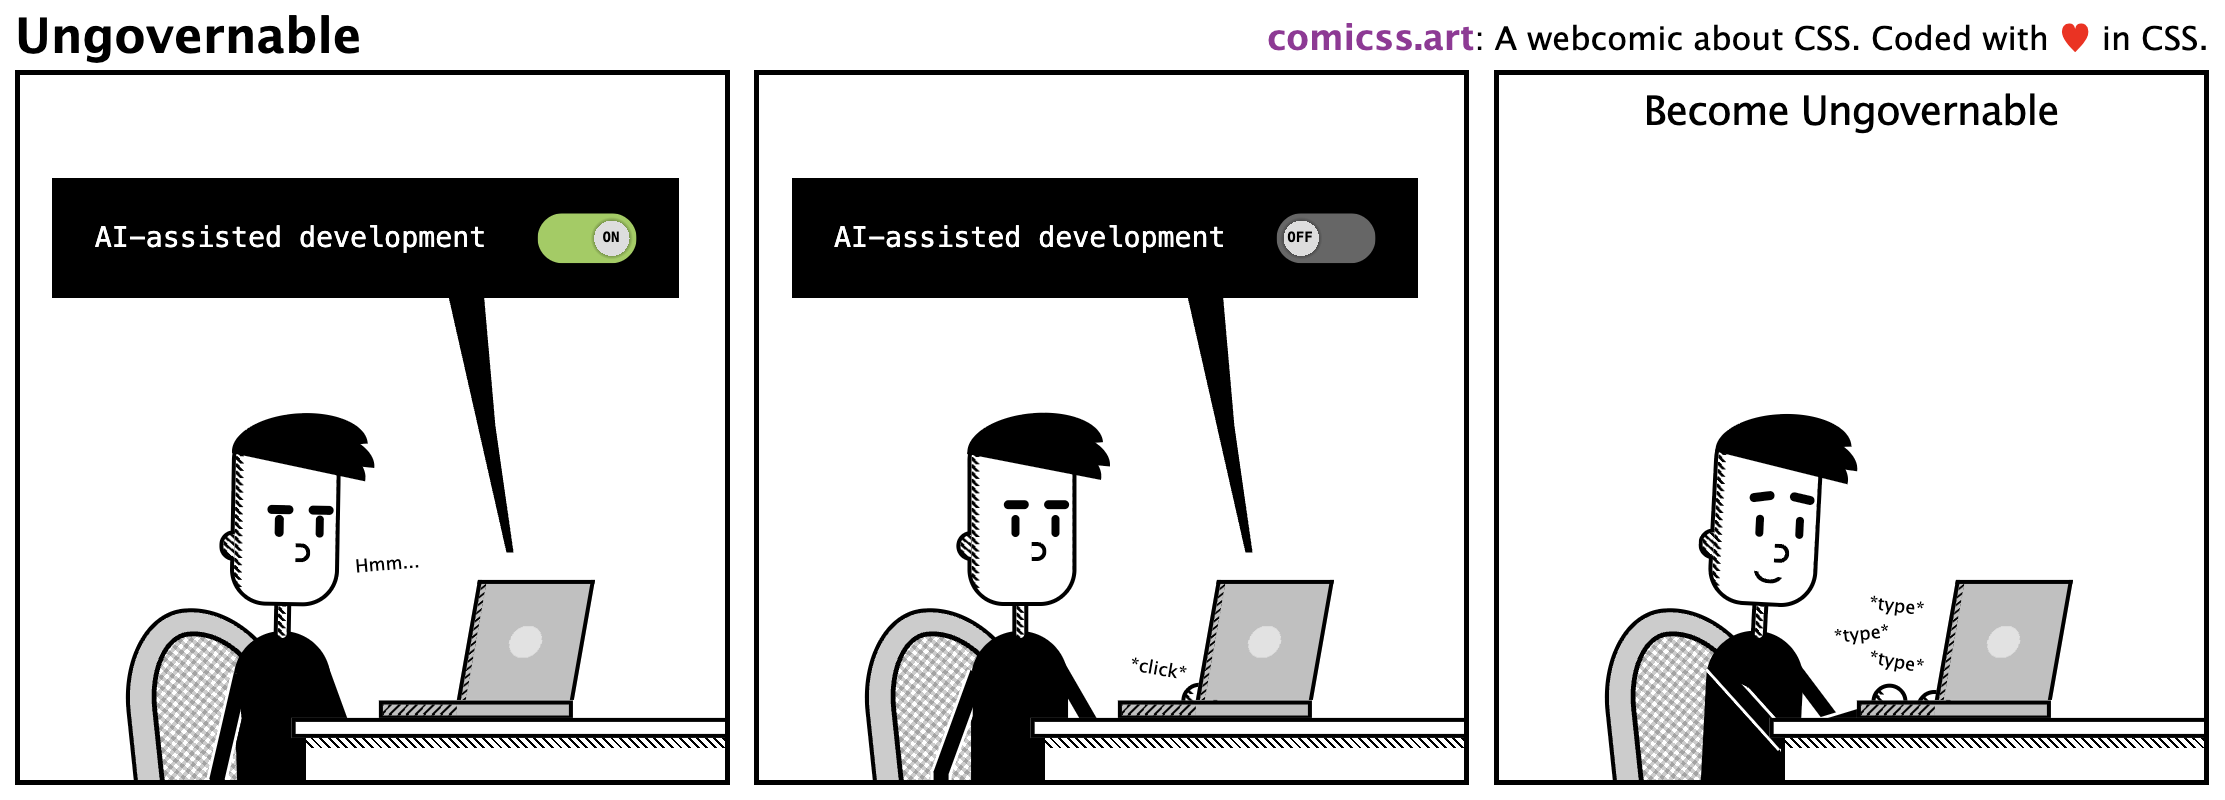
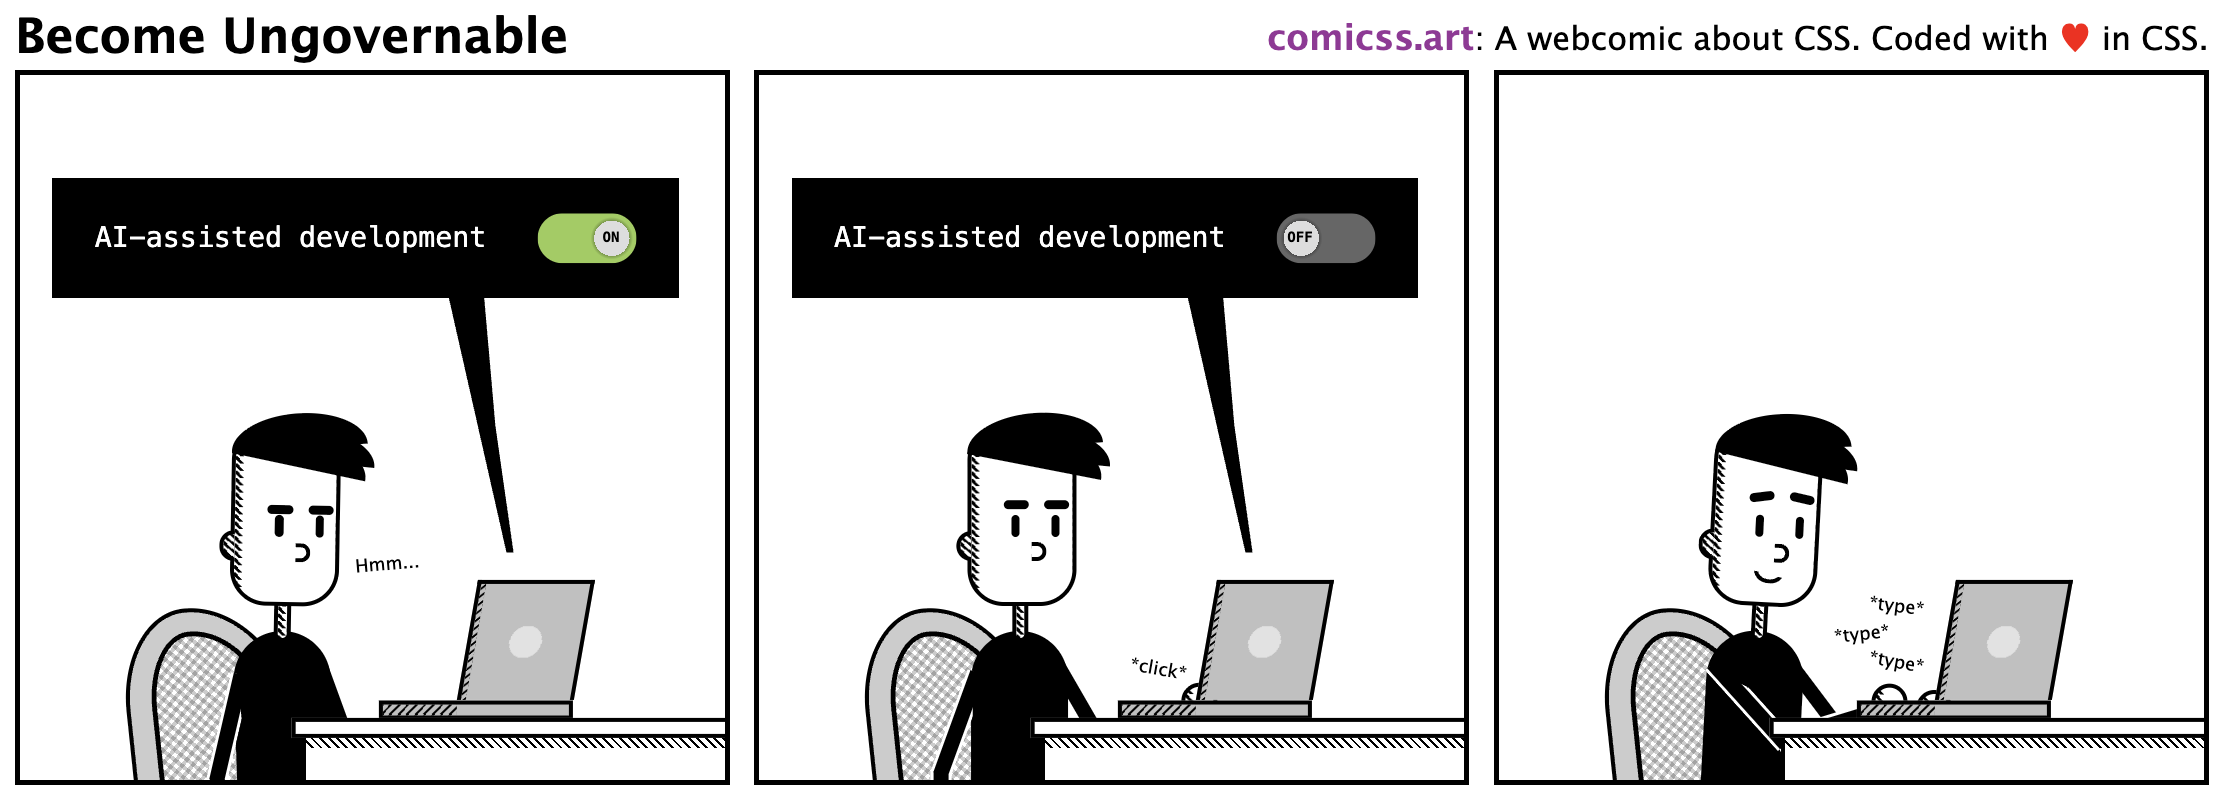
comic

Changed region(s): [[0.0, 0.0312, 0.2791, 0.0938], [0.7443, 0.125, 0.9303, 0.1562]]

diff --git a/comics/265/index.html b/comics/265/index.html
@@ -15,11 +15,11 @@
     <meta property="og:type" content="website" />
     <meta property="og:url" content="https://comicss.art/comics/265" />
     <meta property="og:image" content="https://comicss.art/comics/265/thumb.png" />
-    <meta property="og:description" content="comic strip with 3 panels showing a developer clicking to disable the AI option in an IDE, then starts coding manually, with the text Become Ungovernable" />
+    <meta property="og:description" content="comic strip with 3 panels titled Become Ungovernable, showing a developer clicking to disable the AI option in an IDE, then starts merrily coding manually." />
     <meta name="twitter:card" content="summary_large_image">
     <meta name="twitter:url" content="https://comicss.art/comics/265">
     <meta name="twitter:title" content="comiCSS #265: Become Ungovernable">
-    <meta name="twitter:description" content="comic strip with 3 panels showing a developer clicking to disable the AI option in an IDE, then starts coding manually, with the text Become Ungovernable">
+    <meta name="twitter:description" content="comic strip with 3 panels titled Become Ungovernable, showing a developer clicking to disable the AI option in an IDE, then starts merrily coding manually.">
     <meta name="twitter:image" content="https://comicss.art/comics/265/thumb.png">
     <link rel="monetization" href="https://fynbos.me/alvaro">
 
@@ -139,7 +139,7 @@
         </a>
       </nav>
 
-      <div id="comic-strip" role="img" class="" aria-label="comic strip with 3 panels showing a developer clicking to disable the AI option in an IDE, then starts coding manually, with the text Become Ungovernable">
+      <div id="comic-strip" role="img" class="" aria-label="comic strip with 3 panels titled Become Ungovernable, showing a developer clicking to disable the AI option in an IDE, then starts merrily coding manually.">
         <img src="/comics/265/265-ungovernable-0.webp" alt="" width="350" />
         <img src="/comics/265/265-ungovernable-1.webp" alt="" width="350" />
         <img src="/comics/265/265-ungovernable-2.webp" alt="" width="350" />

diff --git a/comics/265/ungovernable.html b/comics/265/ungovernable.html
@@ -118,7 +118,7 @@
       </css-panel>
     </css-comic> -->
 
-    <css-comic title="Ungovernable" grid="3x1">
+    <css-comic title="Become Ungovernable" grid="3x1">
       <css-panel>
         <css-speech type="screen-message"  line=" left-65" right-line>
           AI-assisted development
@@ -144,7 +144,7 @@
       </css-panel>
 
       <css-panel>
-        <h2>Become&nbsp;Ungovernable</h2>
+        <!-- <h2>Become&nbsp;Ungovernable</h2> -->
         <css-speech type="whisper" top="80" left="50" rotate="10" style="top:79%">*type*</css-speech>
         <css-speech type="whisper" top="75" left="45" rotate="-6">*type*</css-speech>
         <css-speech type="whisper" top="70" left="50" rotate="7" style="top:71%">*type*</css-speech>

diff --git a/index.html b/index.html
@@ -140,7 +140,7 @@
         </a>
       </nav>
 
-      <div id="comic-strip" class="" role="img" aria-label="comic strip with 3 panels showing a developer clicking to disable the AI option in an IDE, then starts coding manually, with the text Become Ungovernable">
+      <div id="comic-strip" class="" role="img" aria-label="comic strip with 3 panels titled Become Ungovernable, showing a developer clicking to disable the AI option in an IDE, then starts merrily coding manually.">
         <img src="/comics/265/265-ungovernable-0.webp" alt="" width="350" />
         <img src="/comics/265/265-ungovernable-1.webp" alt="" width="350" />
         <img src="/comics/265/265-ungovernable-2.webp" alt="" width="350" />

diff --git a/js/data.js b/js/data.js
@@ -2054,6 +2054,6 @@ const posts = [
     uid: "ungovernable",
     boxes: 3,
     title: "Become Ungovernable",
-    ariaLabel: "comic strip with 3 panels showing a developer clicking to disable the AI option in an IDE, then starts coding manually, with the text Become Ungovernable"
+    ariaLabel: "comic strip with 3 panels titled Become Ungovernable, showing a developer clicking to disable the AI option in an IDE, then starts merrily coding manually."
   },
 ]
